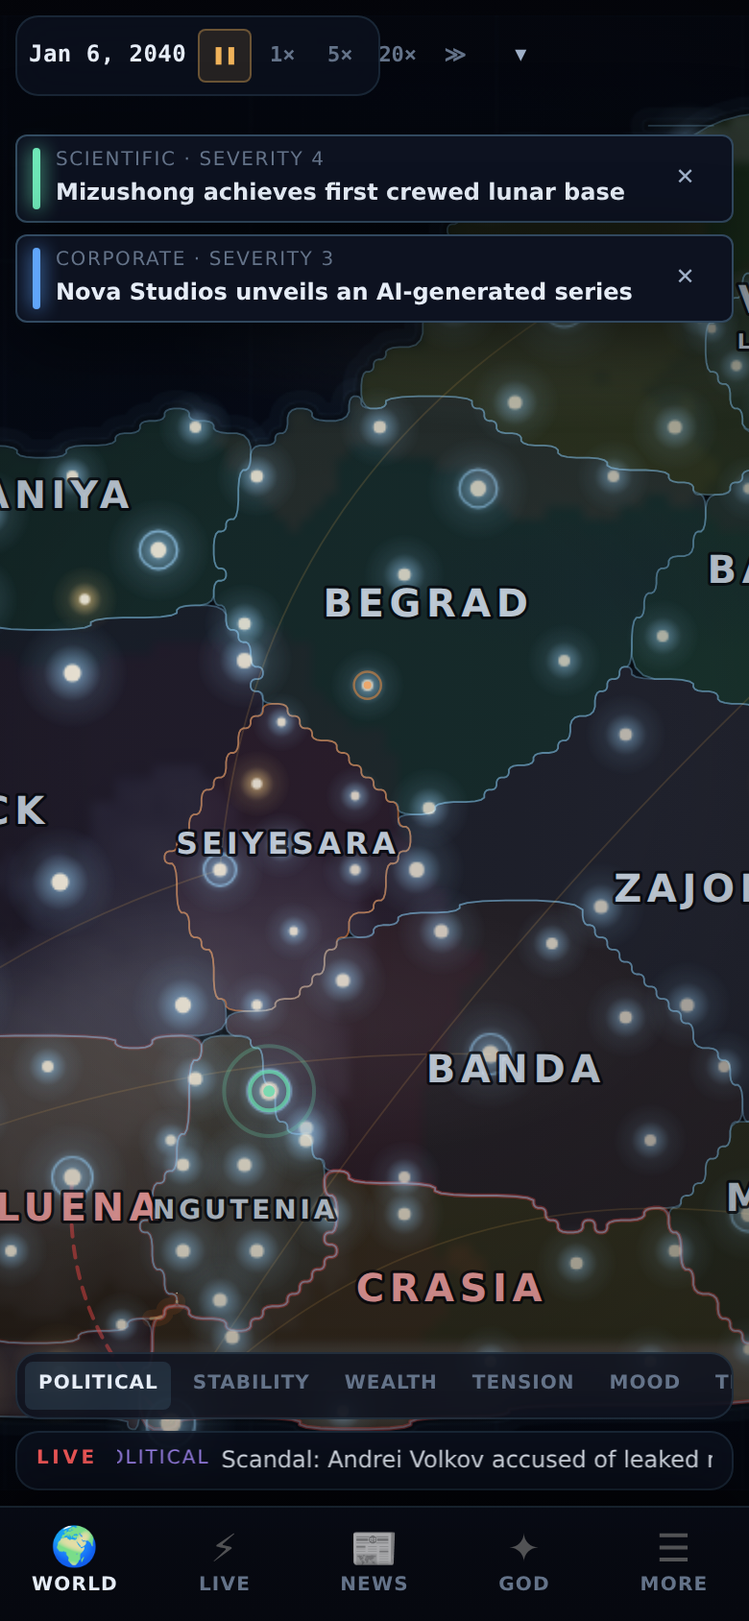
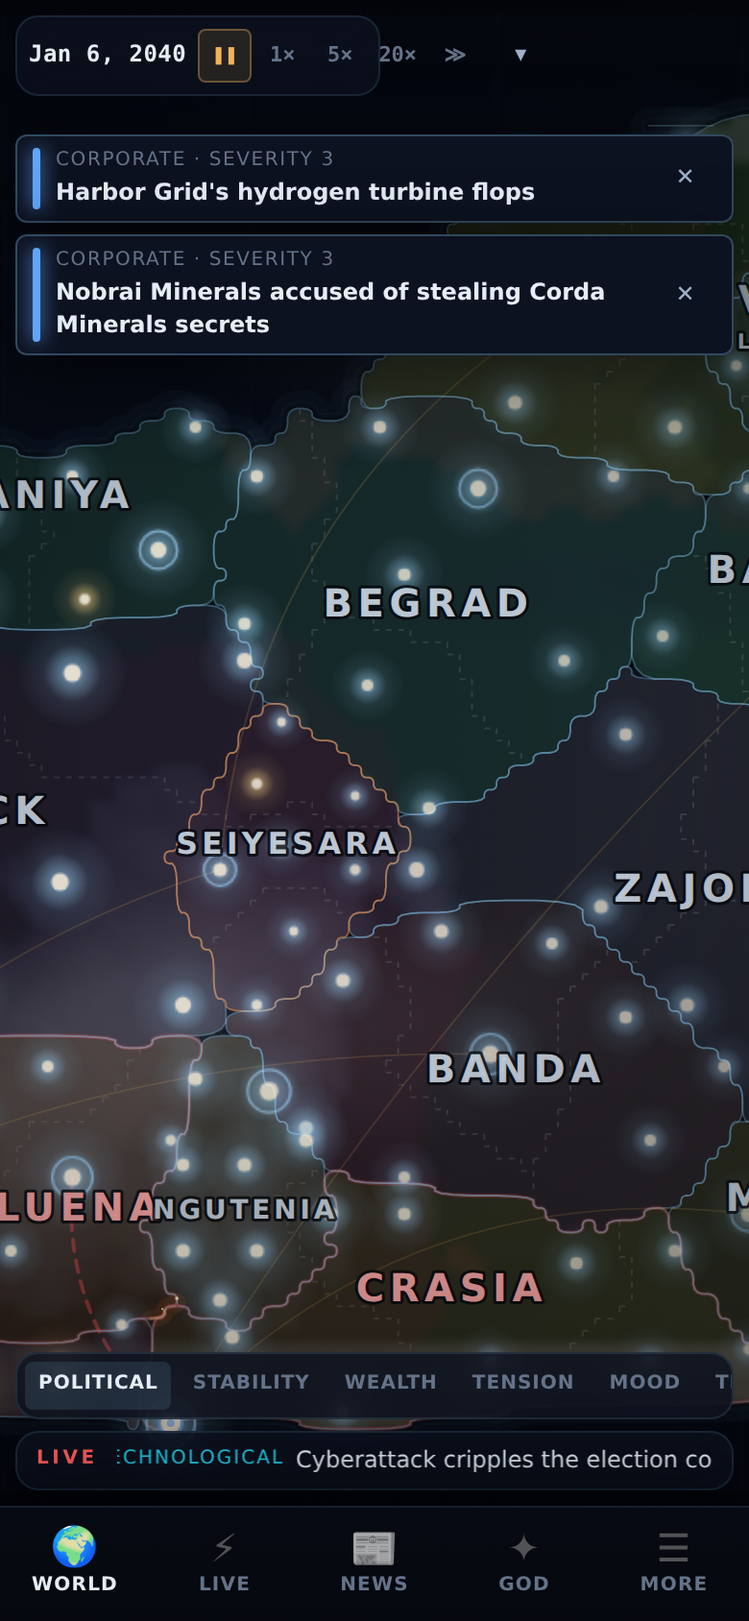
v0.9.0: regions and borders — changelog section, version bump, screenshots, Patchwork Empire premise, intro chip fix
Claude-Session: https://claude.ai/code/session_01DurxPF9AjM5Q8AZzeyKWJK

diff --git a/src/ui/components/Inspector.tsx b/src/ui/components/Inspector.tsx
@@ -11,7 +11,7 @@ import { RelationGraph } from './RelationGraph';
 import { Post } from '../screens/SocialScreen';
 import { fmtMoneyB, fmtPop, fmtPct, catVar, sevLabel, titleCase } from '../format';
 import { tradeLinks, tradeShare } from '@/engine/simulation/trade';
-import { regionsOf, regionOf } from '@/engine/generator/regions';
+import { regionsOf, regionOf, regionStats } from '@/engine/generator/regions';
 import { ageOf, formatDate, daysAgo } from '@/engine/time';
 import { pctChange } from '@/engine/simulation/markets';
 import { sentimentFor } from '@/engine/simulation/information';
@@ -136,7 +136,7 @@ function CountryView({ c }: { c: Country }): React.ReactElement {
           </div>
           {idx && <Section title={`${idx.name} · ${idx.value.toFixed(0)}`} right={<span className={pctChange(idx.history, 30) >= 0 ? 'up' : 'down'}>{fmtPct(pctChange(idx.history, 30))} 30d</span>}><Sparkline data={idx.history.slice(-90)} width={360} height={40} /></Section>}
           <Section title="Leadership">{leader && <EntityRow refx={{ kind: 'person', id: leader.id }} name={leader.name} sub={`${leader.title} · ${leader.ideology} · approval ${c.approval.toFixed(0)}%`} />}<div className="dim" style={{ fontSize: 12, padding: '0 10px' }}>{c.electionEvery ? `Elections every ${c.electionEvery} years · next ${c.nextElectionYear}` : 'No elections'} · motto “{motto(c.culture.values)}” · language {c.culture.language}</div></Section>
-          {(() => { const regions = regionsOf(world, c).sort((x, y) => y.unrest - x.unrest); if (regions.length < 2) return null; return <Section title="Regions" right={<span className="dim mono">{regions.length}</span>}><div className="list">{regions.map((r) => { const cap = r.cityIds.includes(c.capitalId); return <div key={r.id} className="entity-row" onClick={() => { const ct = world.cities[r.cityIds[0]]; if (ct) useGame.getState().select({ kind: 'city', id: ct.id }); }} role="button" tabIndex={0} onKeyDown={(e) => { if (e.key === 'Enter') { const ct = world.cities[r.cityIds[0]]; if (ct) useGame.getState().select({ kind: 'city', id: ct.id }); } }}><div className="grow"><div>{r.name}{cap && <span className="tag" style={{ color: 'var(--accent)' }}>capital</span>}{r.autonomy >= 50 && <span className="tag">autonomous</span>}</div><div className="dim" style={{ fontSize: 12 }}>{r.cityIds.length} {r.cityIds.length === 1 ? 'city' : 'cities'} · identity {(r.identity * 100).toFixed(0)}% · autonomy {r.autonomy.toFixed(0)}{r.governorId && world.people[r.governorId] ? <> · <span className="link" onClick={(e) => { e.stopPropagation(); useGame.getState().select({ kind: 'person', id: r.governorId! }); }}>Gov. {world.people[r.governorId].name}</span></> : ''}{r.history.length ? ` · ${r.history[r.history.length - 1].text.replace(/\.$/, '').toLowerCase()}` : ''}</div></div><div style={{ minWidth: 72, textAlign: 'right' }}><div className="mono" style={{ fontSize: 12, color: barColor(100 - r.unrest) }}>unrest {r.unrest.toFixed(0)}</div><div className="bar" style={{ marginTop: 4 }}><i style={{ width: `${r.unrest}%`, background: barColor(100 - r.unrest) }} /></div></div></div>; })}</div></Section>; })()}
+          {(() => { const regions = regionsOf(world, c).sort((x, y) => y.unrest - x.unrest); if (regions.length < 2) return null; return <Section title="Regions" right={<span className="dim mono">{regions.length}</span>}><div className="list">{regions.map((r) => { const cap = r.cityIds.includes(c.capitalId); return <div key={r.id} className="entity-row" onClick={() => { const ct = world.cities[r.cityIds[0]]; if (ct) useGame.getState().select({ kind: 'city', id: ct.id }); }} role="button" tabIndex={0} onKeyDown={(e) => { if (e.key === 'Enter') { const ct = world.cities[r.cityIds[0]]; if (ct) useGame.getState().select({ kind: 'city', id: ct.id }); } }}><div className="grow"><div>{r.name}{cap && <span className="tag" style={{ color: 'var(--accent)' }}>capital</span>}{r.autonomy >= 50 && <span className="tag">autonomous</span>}</div><div className="dim" style={{ fontSize: 12 }}>{r.cityIds.length} {r.cityIds.length === 1 ? 'city' : 'cities'} · {fmtPop(regionStats(world, r).population)} · prosperity {regionStats(world, r).prosperity.toFixed(0)} · identity {(r.identity * 100).toFixed(0)}% · autonomy {r.autonomy.toFixed(0)}{r.governorId && world.people[r.governorId] ? <> · <span className="link" onClick={(e) => { e.stopPropagation(); useGame.getState().select({ kind: 'person', id: r.governorId! }); }}>Gov. {world.people[r.governorId].name}</span></> : ''}{r.history.length ? ` · ${r.history[r.history.length - 1].text.replace(/\.$/, '').toLowerCase()}` : ''}</div></div><div style={{ minWidth: 72, textAlign: 'right' }}><div className="mono" style={{ fontSize: 12, color: barColor(100 - r.unrest) }}>unrest {r.unrest.toFixed(0)}</div><div className="bar" style={{ marginTop: 4 }}><i style={{ width: `${r.unrest}%`, background: barColor(100 - r.unrest) }} /></div></div></div>; })}</div></Section>; })()}
           {(() => { const links = tradeLinks(world, c).slice(0, 5); const share = tradeShare(world, c); return <Section title="Trade" right={<span className="dim mono">{(share * 100).toFixed(0)}% of GDP</span>}>{links.length ? <div className="list">{links.map(({ partner, volume }) => <EntityRow key={partner.id} refx={{ kind: 'country', id: partner.id }} name={partner.name} sub={`${fmtMoneyB(volume)} / year${c.atWarWith.includes(partner.id) ? ' · suspended' : c.alliances.includes(partner.id) ? ' · ally' : ''}`} />)}</div> : <div className="dim">No active trade{c.tradePartners.length ? ' — partners cut off by war or hostility' : ''}.</div>}</Section>; })()}
           <Section title="Resources"><div className="chips">{Object.entries(c.resources).map(([k, v]) => <span key={k} className="chip">{titleCase(k)} <b style={{ color: barColor(v) }}>{v.toFixed(0)}</b></span>)}</div></Section>
           <Section title={`Cities (${cities.length})`}><div className="list">{cities.slice(0, 6).map((ct) => <EntityRow key={ct.id} refx={{ kind: 'city', id: ct.id }} name={`${ct.name}${ct.capital ? ' ★' : ''}`} sub={`${fmtPop(ct.population)} · prosperity ${ct.prosperity.toFixed(0)} · unrest ${ct.unrest.toFixed(0)}`} />)}</div></Section>
@@ -159,7 +159,7 @@ function CityView({ c }: { c: City }): React.ReactElement {
   const events = useRecentEvents((e) => e.location.cityId === c.id);
   return (
     <>
-      <div className="row" style={{ gap: 12 }}><div className="grow"><div className="title">{c.name} {c.capital && <span className="tag" style={{ color: 'var(--accent)' }}>capital</span>}</div><div className="dim" style={{ fontSize: 12 }}>{country?.name}{regionOf(world, c.id) ? ` · ${regionOf(world, c.id)!.name}` : ''} · {c.coastal ? 'coastal' : 'inland'} · {c.specialties.join(', ')}</div></div><button className="btn icon sm" onClick={() => { focusOn(c.x, c.y, 4); setScreen('world'); }}>◎</button></div>
+      <div className="row" style={{ gap: 12 }}><div className="grow"><div className="title">{c.name} {c.capital && <span className="tag" style={{ color: 'var(--accent)' }}>capital</span>}</div><div className="dim" style={{ fontSize: 12 }}>{country?.name}{regionOf(world, c.id) ? ` · ${regionOf(world, c.id)!.name} (unrest ${regionOf(world, c.id)!.unrest.toFixed(0)}${regionOf(world, c.id)!.autonomy >= 50 ? ', autonomous' : ''})` : ''} · {c.coastal ? 'coastal' : 'inland'} · {c.specialties.join(', ')}</div></div><button className="btn icon sm" onClick={() => { focusOn(c.x, c.y, 4); setScreen('world'); }}>◎</button></div>
       <div className="stat-grid"><Stat k="Population" v={fmtPop(c.population)} /><Stat k="Prosperity" v={c.prosperity.toFixed(0)} bar={c.prosperity} /><Stat k="Unrest" v={c.unrest.toFixed(0)} bar={c.unrest} color="var(--warn)" /></div>
       {country && <EntityRow refx={{ kind: 'country', id: country.id }} name={country.name} sub={`${titleCase(country.government)} · stability ${country.stability.toFixed(0)}`} />}
       {people.length > 0 && <Section title="People here"><div className="list">{people.map((p) => <EntityRow key={p.id} refx={{ kind: 'person', id: p.id }} name={p.name} sub={p.title ?? titleCase(p.profession)} />)}</div></Section>}

diff --git a/src/engine/generator/premise.ts b/src/engine/generator/premise.ts
@@ -12,6 +12,12 @@ const all = (w: World): Country[] => Object.values(w.countries);
 const byGdp = (w: World): Country[] => all(w).slice().sort((a, b) => b.gdp - a.gdp);
 
 export const PREMISES: Premise[] = [
+  { id: 'patchwork-empire', title: 'The Patchwork Empire', blurb: 'One sprawling nation holds a dozen peoples together by habit and garrison. Its regions have started counting what they pay and what they get back.', apply: (w, rng) => {
+    const empire = all(w).sort((a, b) => b.area - a.area)[0]; if (!empire) return;
+    empire.government = rng.pick(['monarchy', 'federation', 'autocracy']); empire.polarization = clamp(empire.polarization + 15, 0, 100); empire.freedom = clamp(empire.freedom - 10, 0, 100); empire.military = clamp(empire.military + 10, 0, 100);
+    for (const id of empire.regionIds ?? []) { const r = w.regions?.[id]; if (!r || r.cityIds.includes(empire.capitalId)) continue; r.identity = clamp(r.identity + 0.3, 0, 1); r.unrest = clamp(r.unrest + 25, 0, 100); r.autonomy = clamp(r.autonomy - 10, 0, 100); const gov = r.governorId ? w.people[r.governorId] : undefined; if (gov && rng.bool(0.6)) { gov.objective = `win autonomy for ${r.name}`; gov.ideology = 'nationalist'; } }
+    for (const n of empire.neighbors) { const c = w.countries[n]; if (!c) continue; c.relations[empire.id] = Math.min(c.relations[empire.id] ?? 0, -20); empire.relations[c.id] = Math.min(empire.relations[c.id] ?? 0, -10); }
+  } },
   { id: 'cold-peace', title: 'The Cold Peace', blurb: 'Two blocs face each other across a frozen border. Nobody has fired a shot. Yet.', apply: (w, rng) => {
     const [a, b] = byGdp(w); if (!a || !b) return;
     for (const c of all(w)) c.military = clamp(c.military + 8, 0, 100);
@@ -58,12 +64,14 @@ export const PREMISES: Premise[] = [
 
 /** Deterministic premise for a seed (cheap: no world needed). */
 export function premiseFor(seed: string): Premise {
+  if (/empire|patchwork/i.test(seed)) return PREMISES.find((p) => p.id === 'patchwork-empire')!; // opt-in by seed name so existing seeds keep their premises
   const r = new RNG(seed).fork('premise');
-  return r.pick(PREMISES);
+  return r.pick(PREMISES.filter((p) => p.id !== 'patchwork-empire'));
 }
 
 /** Opening arcs: each premise seeds one or two scheduled follow-ups (rules live in events/consequences.ts). */
 const ARCS: Record<string, { rule: string; delay: [number, number] }[]> = {
+  'patchwork-empire': [{ rule: 'premise.patchwork.demands', delay: [10, 40] }, { rule: 'premise.patchwork.demands', delay: [90, 200] }],
   'cold-peace': [{ rule: 'premise.cold-peace.incident', delay: [20, 70] }],
   'long-boom': [{ rule: 'premise.long-boom.bubble', delay: [30, 120] }],
   'age-of-unrest': [{ rule: 'premise.age-of-unrest.protests', delay: [5, 25] }],
@@ -92,6 +100,7 @@ export function applyPremise(world: World, seed: string): Premise {
 
 /** Curated seeds, one per premise, shown on the intro as "featured worlds". Keep in sync with PREMISES order (see tests). */
 export const FEATURED_SEEDS: { seed: string; premise: string }[] = [
+  { seed: 'amber-empire-1', premise: 'patchwork-empire' },
   { seed: 'amber-tide-6', premise: 'cold-peace' },
   { seed: 'amber-harbor-16', premise: 'long-boom' },
   { seed: 'amber-summit-7', premise: 'age-of-unrest' },

diff --git a/src/engine/events/consequences.ts b/src/engine/events/consequences.ts
@@ -566,6 +566,20 @@ export const CONSEQUENCE_RULES: Record<string, ConsequenceRule> = {
       data: { shocks: [{ sector: 'technology', pct: 0.1 }, { sector: 'manufacturing', pct: -0.06 }] as MarketShock[] },
     });
   },
+  'premise.patchwork.demands': (w, rng, src) => {
+    const empire = Object.values(w.countries).sort((a, b) => b.area - a.area)[0]; if (!empire) return null;
+    const regions = (empire.regionIds ?? []).map((id) => w.regions?.[id]).filter((r): r is NonNullable<typeof r> => !!r && !r.cityIds.includes(empire.capitalId) && !r.history.some((h) => /Demanded autonomy/.test(h.text) && w.day - h.day < 300));
+    const r = regions.sort((a, b) => b.unrest - a.unrest)[0]; if (!r) return null;
+    r.unrest = clamp(Math.max(r.unrest, 60) + 5, 0, 100); r.history.push({ day: w.day, text: 'Demanded autonomy.' });
+    const gov = r.governorId ? w.people[r.governorId] : undefined; const anchor = w.cities[r.cityIds[0]];
+    if (gov) { gov.fame = clamp(gov.fame + 10, 0, 100); gov.history.push({ day: w.day, text: `Led ${r.name}'s demand for autonomy.` }); }
+    return createEvent(w, {
+      category: 'political', type: 'region.autonomy', severity: 3, causedBy: src.id, title: `${r.name} demands autonomy from ${empire.name}`,
+      description: `${gov ? `Governor ${gov.name} and the regional council` : 'The regional council'} of ${r.name} sent the empire's capital a list: ${rng.pick(['schools in their own language', 'a share of the mines', 'an end to conscription', 'a court of their own'])}, and a date. ${rng.pick([`In ${anchor?.name ?? r.name} the old flag came out of the attics.`, 'Other regions are watching the answer.', 'The garrison was doubled overnight.'])}`,
+      location: { countryId: empire.id, cityId: anchor?.id, x: anchor?.x ?? empire.centroid.x, y: anchor?.y ?? empire.centroid.y }, actors: [ref('country', empire.id), ...(gov ? [ref('person', gov.id)] : [])],
+      effects: [fx('country', empire.id, 'unrest', 4), fx('country', empire.id, 'stability', -3)], tags: ['region', 'autonomy', 'premise', empire.code], data: { regionId: r.id, region: r.name, governorLed: !!gov },
+    });
+  },
   'premise.fractured-map.talks': (w, rng, src) => {
     const a = Object.values(w.countries).find((x) => x.atWarWith.length);
     const b = a ? w.countries[a.atWarWith[0]] : undefined;

diff --git a/src/ui/Intro.tsx b/src/ui/Intro.tsx
@@ -46,7 +46,7 @@ export function Intro(): React.ReactElement {
               {autosave && <button className="btn primary" style={{ minHeight: 48 }} onClick={() => void loadWorld('autosave')}>▶ Continue — {autosave.name}, {autosave.date}</button>}
               <button className={`btn ${autosave ? '' : 'primary'}`} style={{ minHeight: 48 }} onClick={() => void go()}>✦ Generate new world</button>
               <div className="row"><input className="input" placeholder="Custom seed (optional)" value={seed} onChange={(e) => setSeed(e.target.value)} onKeyDown={(e) => { if (e.key === 'Enter') void go(seed); }} aria-label="World seed" /><button className="btn" style={{ whiteSpace: 'nowrap' }} onClick={() => void go(seed || randomSeed())} disabled={!seed.trim()}>Use seed</button></div>
-              <div className="chips scroll" aria-label="Featured worlds" style={{ justifyContent: 'center' }}>{FEATURED_SEEDS.map((f) => { const pr = PREMISES.find((x) => x.id === f.premise); return <button key={f.seed} className={`chip clickable ${seed === f.seed ? 'active' : ''}`} title={pr?.blurb} onClick={() => setSeed(f.seed)}>{pr?.title ?? f.premise}</button>; })}</div>
+              <div className="chips scroll" aria-label="Featured worlds" style={{ justifyContent: 'safe center' }}>{FEATURED_SEEDS.map((f) => { const pr = PREMISES.find((x) => x.id === f.premise); return <button key={f.seed} className={`chip clickable ${seed === f.seed ? 'active' : ''}`} title={pr?.blurb} onClick={() => setSeed(f.seed)}>{pr?.title ?? f.premise}</button>; })}</div>
               <div className="row" style={{ justifyContent: 'center' }}><button className="btn ghost" onClick={() => setSeed(randomSeed())}>🎲 Random seed</button><button className="btn ghost" onClick={() => setShowSaves(true)}>💾 Saves & import</button></div>
               {error && <div className="card" style={{ color: 'var(--bad)' }}>{error}</div>}
             </div>

diff --git a/src/engine/generator/regions.ts b/src/engine/generator/regions.ts
@@ -51,5 +51,11 @@ export function assignRegionsFor(world: World, rng: RNG, c: Country): void {
   }
 }
 
+/** Population and average prosperity of a region's cities. */
+export function regionStats(world: World, r: Region): { population: number; prosperity: number } {
+  const cities = r.cityIds.map((id) => world.cities[id]).filter(Boolean);
+  return { population: cities.reduce((s, ct) => s + ct.population, 0), prosperity: cities.length ? cities.reduce((s, ct) => s + ct.prosperity, 0) / cities.length : 50 };
+}
+
 export function regionOf(world: World, cityId: ID): Region | undefined { const r = world.cities[cityId]?.regionId; return r ? world.regions?.[r] : undefined; }
 export function regionsOf(world: World, c: Country): Region[] { return (c.regionIds ?? []).map((id) => world.regions?.[id]).filter((r): r is Region => !!r); }

diff --git a/public/sw.js b/public/sw.js
@@ -1,5 +1,5 @@
 /* THE WORLD IS ALIVE — minimal offline-first service worker (app shell cache). */
-const CACHE = 'twia-shell-v3';
+const CACHE = 'twia-shell-v4';
 // Scope-relative so the same worker serves from / or from a sub-path (GitHub Pages).
 const BASE = new URL('./', self.location.href).pathname;
 const SHELL = [BASE, BASE + 'index.html', BASE + 'manifest.webmanifest', BASE + 'icons/icon.svg'];

diff --git a/HANDOFF.md b/HANDOFF.md
@@ -2,9 +2,9 @@
 
 Read this first. Everything needed to continue lives in this repository; nothing depends on the original chat session.
 
-## Status (v0.8.0)
+## Status (v0.9.0)
 
-**Playable, deployed, CI-verified on every push.** Builds, passes 43 unit tests (balance, robustness fuzz, LLM mocks, God parsing, save round-trips) and a browser smoke run; every push publishes to `gh-pages` and a live QA run on three phone viewports plus desktop commits its report to `docs/qa`. Since v0.7 (v0.8): rising seas and coastal defence, war fronts traced along the smoothed borders, a spring film festival and an autumn trade fair with bans, rights deals and joint ventures (also God presets/intents), festive glow zones on the map, and text equivalents for severity colours. Since v0.5 (v0.6 and v0.7): seed-driven premises with opening arcs, a trade model and Trade/Climate overlays, weather fronts that steer disasters, movements that grow, fade, merge and win elections, religion tides and schisms, Laurel Prizes, summit agendas, anniversaries, delayed God commands, LLM-backed dialogue with persuasion (leaders make peace, call votes, reform or resign; CEOs pivot), inheritance feuds, mentors turning on protégés, harvests and the food-price chain (famine, bread riots, grain aid, export bans, famine migration, rains), water disputes, summit agendas, anniversaries, a Markdown chronicle export, featured worlds on the intro, keyboard map navigation and readability settings. Installs as a PWA, saves to IndexedDB, exports/imports JSON.
+**Playable, deployed, CI-verified on every push.** Builds, passes 43 unit tests (balance, robustness fuzz, LLM mocks, God parsing, save round-trips) and a browser smoke run; every push publishes to `gh-pages` and a live QA run on three phone viewports plus desktop commits its report to `docs/qa`. Since v0.8 (v0.9): regions inside every nation (2–4 per country, seam-aware k-means), governors, regional unrest → autonomy demands → concessions / crackdowns → secession along regional borders, annexation under peace terms or by God command (the map is redrawn live), regionalists who found liberation movements, a Regions overlay with dotted seams, God targeting of regions by name, and three more live QA checks. Since v0.7 (v0.8): rising seas and coastal defence, war fronts traced along the smoothed borders, a spring film festival and an autumn trade fair with bans, rights deals and joint ventures (also God presets/intents), festive glow zones on the map, and text equivalents for severity colours. Since v0.5 (v0.6 and v0.7): seed-driven premises with opening arcs, a trade model and Trade/Climate overlays, weather fronts that steer disasters, movements that grow, fade, merge and win elections, religion tides and schisms, Laurel Prizes, summit agendas, anniversaries, delayed God commands, LLM-backed dialogue with persuasion (leaders make peace, call votes, reform or resign; CEOs pivot), inheritance feuds, mentors turning on protégés, harvests and the food-price chain (famine, bread riots, grain aid, export bans, famine migration, rains), water disputes, summit agendas, anniversaries, a Markdown chronicle export, featured worlds on the intro, keyboard map navigation and readability settings. Installs as a PWA, saves to IndexedDB, exports/imports JSON.
 
 ```bash
 npm install && npm run dev      # play
@@ -89,6 +89,7 @@ npm run build && npm run e2e    # production build + headless desktop/mobile smo
 - `tests/llm.test.ts`: mocked endpoint tests for God interpretation, fallback, enhancer budget, Anthropic-style parsing.
 - `tests/contours.test.ts`: polygon coverage vs. cell area for every country; single-cell island edge case.
 - `tests/engine.test.ts`: 29 tests — regions (partition, secession along a region, annexation transfer, ousted-governor liberation movement, old-save migration), calendar (festival + fair once a year with follow-ups), determinism, world richness, 365-day progression (~0.6 s), first-5-days activity, run determinism, save round-trip, corrupted save rejection, every God preset, freeform interpretation + consequences, summaries, 20-year balance (population, GDP, inflation, debt, wars, living people, index bounds, event cap, dialogue).
+- `tests/e2e/deployed.mjs` runs against a URL (`DEPLOY_URL=… node tests/e2e/deployed.mjs`); set `QA_OUT=/some/dir` for local runs so the CI-owned `docs/qa` report is not overwritten.
 - `tests/e2e/smoke.mjs`: desktop 1440×900 and mobile 390×844 (touch): intro → seed → map → advance month → tap select → all screens → event causal chain → freeform God command → preset (meteor, cinematic) → save → reload → continue → interventions persist → fast-forward. Screenshots in `tests/e2e/output/`.
 - Not covered: LLM path, Safari/Firefox (Chromium only), real devices.
 

diff --git a/README.md b/README.md
@@ -16,7 +16,7 @@ what you caused.
 
 ## Screenshots
 
-Current build (v0.8): a Fractured Map world with wars, smooth burning fronts and trade arcs; the newsroom's weekly editorials; markets; a conversation with a leader; the intro with featured worlds. Regenerate with `npm run build && node tests/e2e/showcase.mjs`.
+Current build (v0.9): a Fractured Map world with regions inside every nation, wars, smooth burning fronts and trade arcs; the newsroom's weekly editorials; markets; a conversation with a leader; the intro with featured worlds. Regenerate with `npm run build && node tests/e2e/showcase.mjs`.
 
 | | |
 | --- | --- |
@@ -33,7 +33,7 @@ Share a world: append `?seed=your-seed` to the URL (the 🔗 button copies it).
 
 **GitHub Pages URL:** https://lvepelli.github.io/TheWorldIsAlive/ — becomes active after a one-time click by the repository owner: *Settings → Pages → Build and deployment → Source: Deploy from a branch → Branch: `gh-pages` / (root) → Save*. (The Actions token cannot enable Pages by itself.) Every later push updates it automatically.
 
-**Featured worlds (deep links, one per starting premise):** [The Cold Peace](https://raw.githack.com/lvepelli/TheWorldIsAlive/gh-pages/index.html?seed=amber-tide-6) · [The Long Boom](https://raw.githack.com/lvepelli/TheWorldIsAlive/gh-pages/index.html?seed=amber-harbor-16) · [The Age of Unrest](https://raw.githack.com/lvepelli/TheWorldIsAlive/gh-pages/index.html?seed=amber-summit-7) · [After the Plague](https://raw.githack.com/lvepelli/TheWorldIsAlive/gh-pages/index.html?seed=amber-meridian-2) · [The Machine Dawn](https://raw.githack.com/lvepelli/TheWorldIsAlive/gh-pages/index.html?seed=amber-orchard-13) · [The Fractured Map](https://raw.githack.com/lvepelli/TheWorldIsAlive/gh-pages/index.html?seed=amber-citadel-1) · [The Gilded Age](https://raw.githack.com/lvepelli/TheWorldIsAlive/gh-pages/index.html?seed=amber-lantern-2) · [The Quiet Century](https://raw.githack.com/lvepelli/TheWorldIsAlive/gh-pages/index.html?seed=amber-canyon-2). Any `?seed=` works; the intro shows the same eight as chips.
+**Featured worlds (deep links, one per starting premise):** [The Cold Peace](https://raw.githack.com/lvepelli/TheWorldIsAlive/gh-pages/index.html?seed=amber-tide-6) · [The Long Boom](https://raw.githack.com/lvepelli/TheWorldIsAlive/gh-pages/index.html?seed=amber-harbor-16) · [The Age of Unrest](https://raw.githack.com/lvepelli/TheWorldIsAlive/gh-pages/index.html?seed=amber-summit-7) · [After the Plague](https://raw.githack.com/lvepelli/TheWorldIsAlive/gh-pages/index.html?seed=amber-meridian-2) · [The Machine Dawn](https://raw.githack.com/lvepelli/TheWorldIsAlive/gh-pages/index.html?seed=amber-orchard-13) · [The Fractured Map](https://raw.githack.com/lvepelli/TheWorldIsAlive/gh-pages/index.html?seed=amber-citadel-1) · [The Gilded Age](https://raw.githack.com/lvepelli/TheWorldIsAlive/gh-pages/index.html?seed=amber-lantern-2) · [The Quiet Century](https://raw.githack.com/lvepelli/TheWorldIsAlive/gh-pages/index.html?seed=amber-canyon-2) · [The Patchwork Empire](https://raw.githack.com/lvepelli/TheWorldIsAlive/gh-pages/index.html?seed=amber-empire-1). Any `?seed=` works; the intro shows the same eight as chips.
 
 Open either URL in Safari (iPhone) or Chrome (Android). It is a static site over HTTPS, works offline after the first load, and can be installed to the home screen (Share → *Add to Home Screen* on iOS; the install banner or menu → *Add to Home screen* on Android). Deep links work: append `?seed=amber-tide-1234` to either URL.
 

diff --git a/CHANGELOG.md b/CHANGELOG.md
@@ -1,9 +1,12 @@
 # Changelog
 
-## Unreleased
+## 0.9.0 — regions and borders
 
 - Regions: every country with three or more cities is split into 2–4 regions (seeded, seam-aware k-means over its cities; `generator/regions.ts`), each with an identity, an autonomy level and its own unrest that drifts with the country's mood, the prosperity gap to the rest of the country and the odd slight from the capital (`simulation/regions.ts`). Distinct, aggrieved regions demand autonomy; the capital concedes (devolution, autonomy up) or cracks down (freedom down, unrest up), and a crackdown can end in secession along the region's own borders — the new state takes exactly the region's cities and the cells nearest to them, so borders stop looking arbitrary. Ten years on the `diag` seed: ~45 autonomy demands, 20 concessions, 16 crackdowns, 3 new states. Country inspector lists regions (unrest, identity, autonomy, last chapter); city inspector names the region; sagas are named ("The X question", "The X crackdown", "The birth of X"). Old saves get regions on load.
 - God Mode: regions are targets — "Gresh Province declares independence" splits exactly that region off, "Grant Kien Valley autonomy" (or the Grant Autonomy preset, 43 presets) devolves power; region names typed into the Create Country / Grant Autonomy forms are matched by name.
+- Fix: the featured-worlds chip row on the intro is `safe center`-aligned, so with nine premises the first chip is no longer clipped off the left edge and unreachable on desktop.
+- Premise: "The Patchwork Empire" — the largest nation becomes a monarchy/federation/autocracy holding restless, distinct regions with separatist governors; two scripted autonomy demands open the game (`premise.patchwork.demands`). Chosen for any seed containing "empire" or "patchwork" (featured seed `amber-empire-1`), so existing seeds keep their premises.
+- Inspector: region rows show population, average prosperity, identity, autonomy and the governor (tap to open them); a city's line names its region with its unrest.
 - CI: the deployed-site QA gains three checks per viewport — the Regions overlay paints the map, God understands annexation, governors appear among the people (`tests/e2e/deployed.mjs`).
 - Regionalists: characters whose objective is to free a region or win it autonomy/independence (ousted and separatist governors) found a liberation movement there (`<Region> Liberation Front`, they lead it) or rally the one that exists (`region.rally`), pushing regional unrest — so an annexation or a crackdown keeps producing named people with a cause (`simulation/objectives.ts` `regionalistActsOnObjective`).
 - Annexation: wars can redraw the map. When a decisive winner (military ≥ 1.15× the loser's) ends a war, the peace terms may cede the loser's region nearest to the winner (`war.annex`, 45 %): its cities, the cells nearest to them, a share of population and GDP and its people change flags (`actions.ts` `transferRegion`, `geography.version` tells the renderer to rebuild borders, fronts and seams). The ousted governor swears to free the region; the annexed region starts restless and distinct, so it feeds the autonomy machinery, and an insurgency can flare within months (`annex.insurgency`). God Mode: "X annexes <Region>" and an Annex Region preset (44 presets). Twenty years on `diag`: 14 annexations, 8 insurgencies, no city/cell inconsistencies.

diff --git a/WORLD_ENGINE.md b/WORLD_ENGINE.md
@@ -2,7 +2,7 @@
 
 ## Generation premise (`generator/premise.ts`)
 
-After geography, countries, people, companies, outlets, relationships and markets are generated, `applyPremise(world, seed)` picks one of eight starting situations deterministically from the seed (`premiseFor(seed)` is cheap enough for the intro to show it before generation) and nudges the initial state: The Cold Peace (two blocs, alliances, hostile relations), The Long Boom (growth, debt, inflated valuations), The Age of Unrest, After the Plague (smaller population, biotech premium), The Machine Dawn (tech + unemployment in the top eight economies), The Fractured Map (three live border wars), The Gilded Age (corruption, tycoon wealth), The Quiet Century (calm). The choice is stored in `meta.premise`, a historic `premise.opening` event is recorded on day 0, and one opening arc per premise is scheduled into `world.pending` (rules prefixed `premise.` in `consequences.ts`), so the History → Sagas tab shows the premise as the root of its own chain.
+After geography, countries, people, companies, outlets, relationships and markets are generated, `applyPremise(world, seed)` picks one of eight starting situations deterministically from the seed (a ninth, The Patchwork Empire, is chosen whenever the seed contains "empire" or "patchwork", so existing seeds keep their premises) (`premiseFor(seed)` is cheap enough for the intro to show it before generation) and nudges the initial state: The Cold Peace (two blocs, alliances, hostile relations), The Long Boom (growth, debt, inflated valuations), The Age of Unrest, After the Plague (smaller population, biotech premium), The Machine Dawn (tech + unemployment in the top eight economies), The Fractured Map (three live border wars), The Gilded Age (corruption, tycoon wealth), The Quiet Century (calm). The choice is stored in `meta.premise`, a historic `premise.opening` event is recorded on day 0, and one opening arc per premise is scheduled into `world.pending` (rules prefixed `premise.` in `consequences.ts`), so the History → Sagas tab shows the premise as the root of its own chain.
 
 ## Tick model
 
